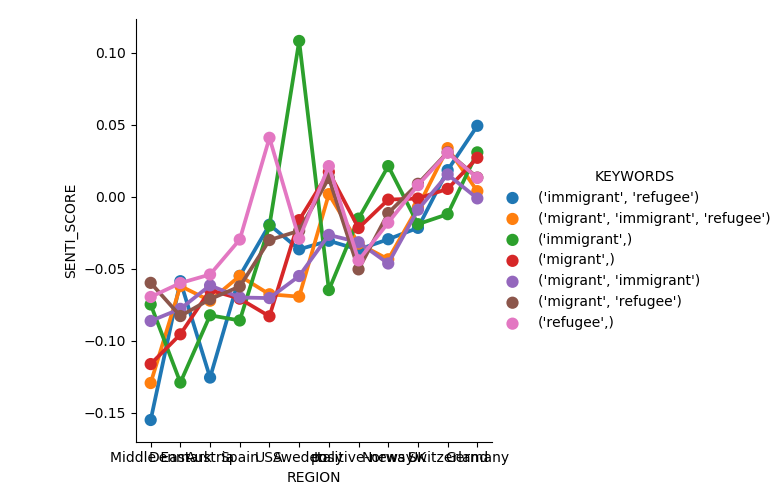
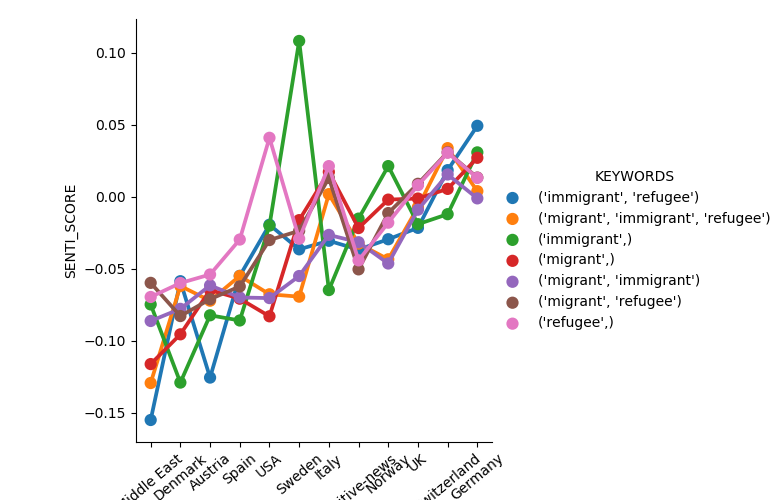
plotcharts, added label rotation

Changed region(s): [[0.1228, 0.9, 0.6445, 1.0]]

diff --git a/analysis/scripts/skripta.py b/analysis/scripts/skripta.py
@@ -208,8 +208,15 @@ for region_keywords,group in df.groupby(['REGION','KEYWORDS']):
     visualise_model(group)
 '''
 #Visualize final sentiment by region
+plt.figure(figsize=(30,30))
 sentiScore_byRegion_byKeywords=sentiScore_byRegion_byKeywords.sort_values(by=['SENTI_SCORE'])
-sns.catplot(x="REGION", y="SENTI_SCORE", hue='KEYWORDS', kind="point", data=sentiScore_byRegion_byKeywords)
+g = sns.catplot(x="REGION", y="SENTI_SCORE", hue='KEYWORDS', kind="point", data=sentiScore_byRegion_byKeywords)
+# g.set_xticklabels(ax.get_xticklabels(), rotation=40, ha="right")
+# for ax in g.axes:
+# 	for label in ax.get_xticklabels():
+# 		label.set_rotation(45)
+
+plt.xticks(rotation=40)
 #plt.show()
 plt.savefig('../plot_region_sentimentScore.png')
 plt.close()
